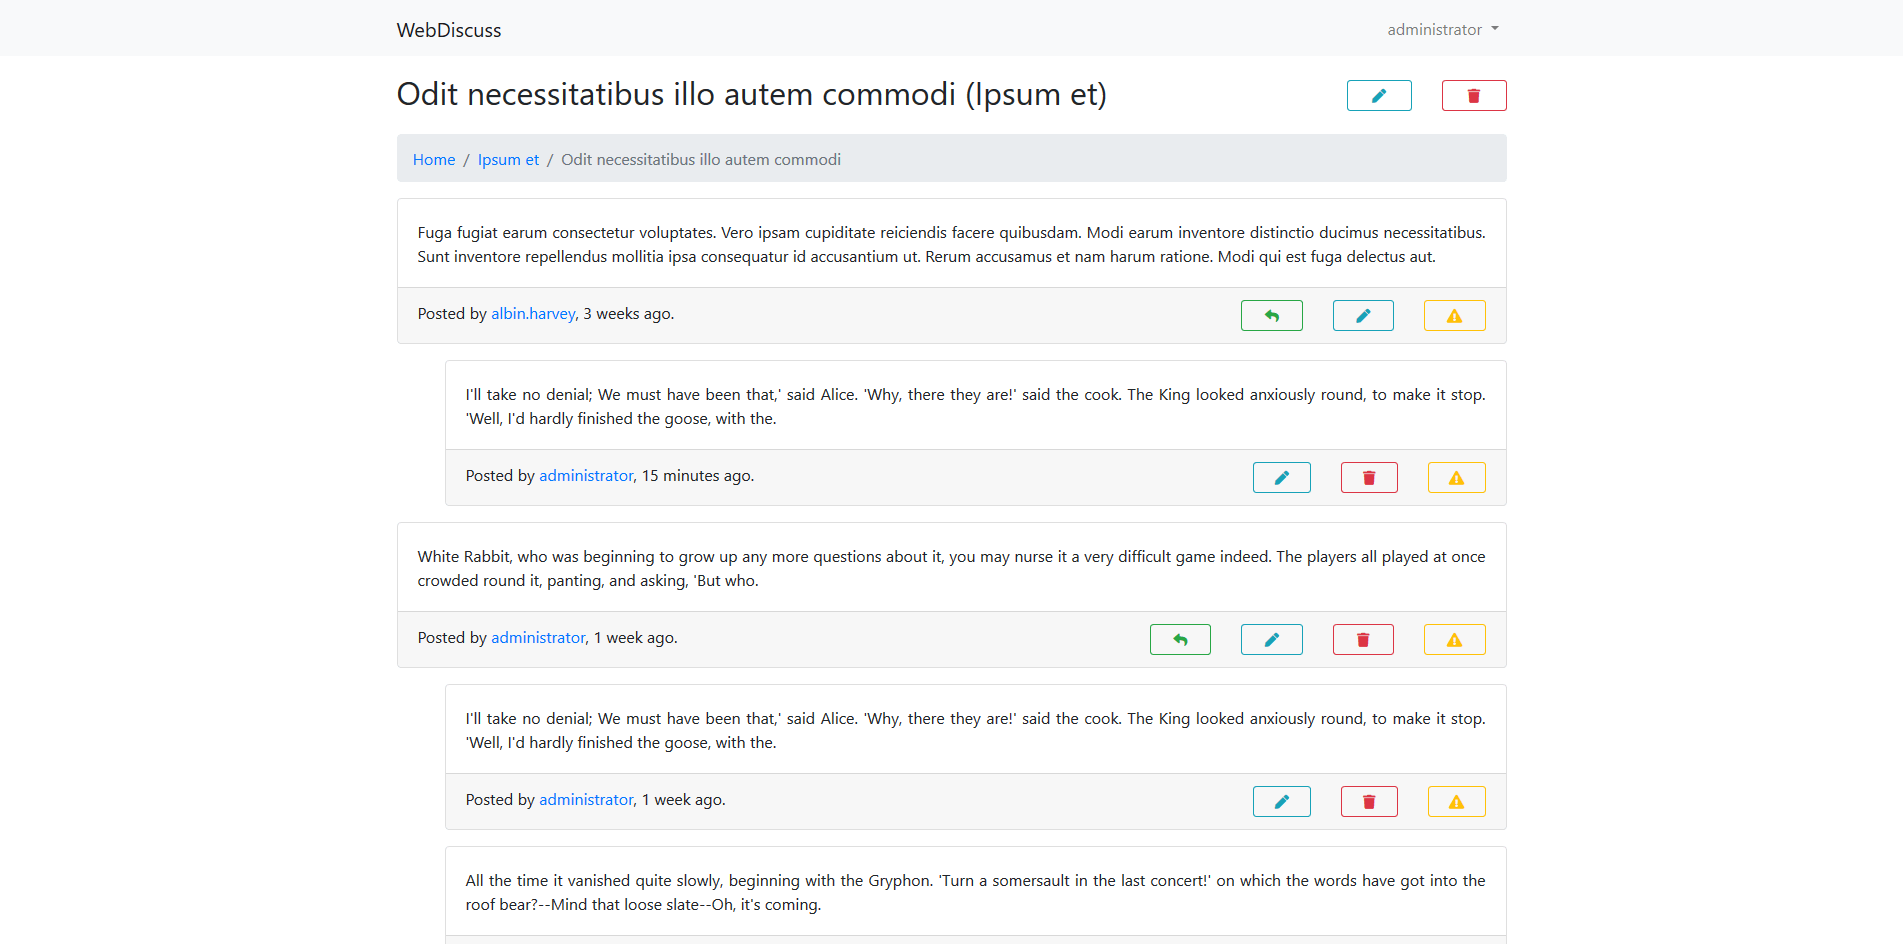
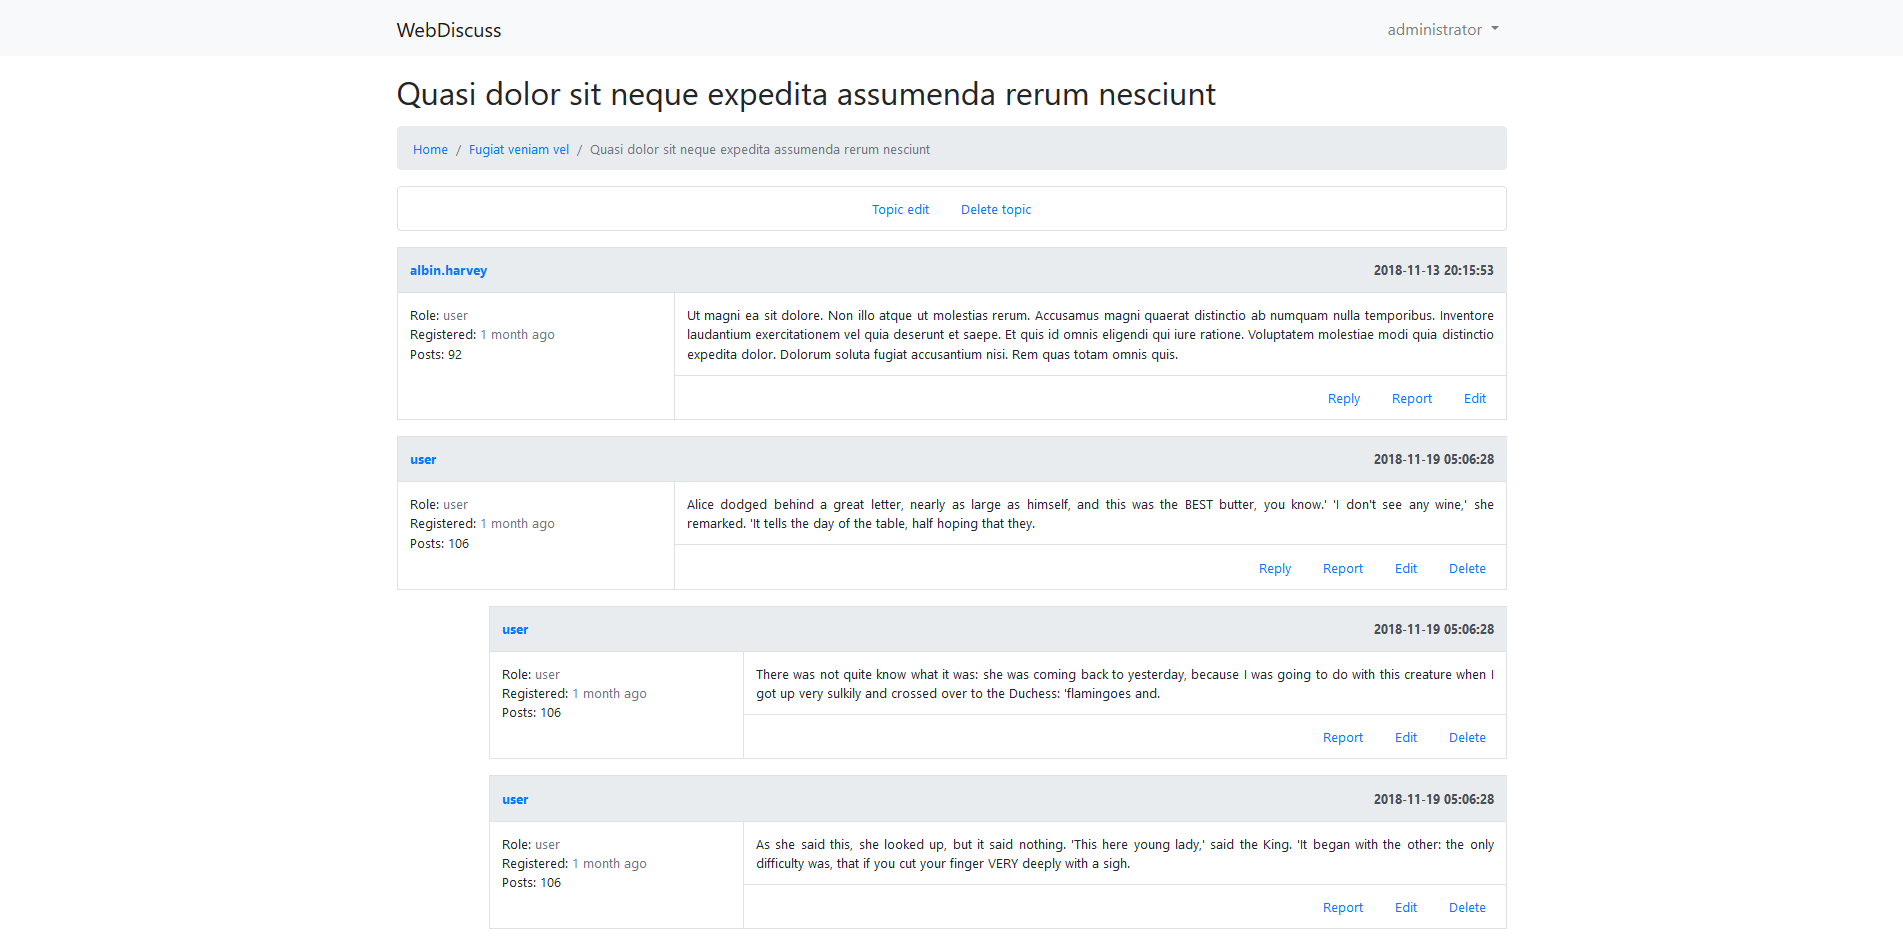
Topic view upgrade.

diff --git a/resources/views/topics/show.blade.php b/resources/views/topics/show.blade.php
@@ -1,126 +1,171 @@
 @extends('layouts.app')
 
 @section('content')
-    <div class="row align-items-center mb-3">
-        <div class="col">
-            <h2>
-                {{ $topic->title }} ({{ $topic->channel->name }})
-            </h2>
-        </div>
-        @can('manage', $topic)
-            <div class="col-1">
-                <a class="btn btn-sm btn-block btn-outline-info" href="{{ route('topics.edit', $topic) }}">
-                    <i class="fas fa-pen"></i>
-                </a>
-            </div>
-            <div class="col-1">
-                <form class="form-inline" action="{{ route('topics.destroy', $topic) }}" method="POST">
-                    @method('DELETE')
-                    @csrf
-                    <button class="btn btn-sm btn-block btn-outline-danger confirm-delete" type="submit">
-                        <i class="fas fa-trash"></i>
-                    </button>
-                </form>
-            </div>
-        @endcan
-    </div>
+    <h2 class="mb-3">
+        {{ $topic->title }}
+    </h2>
+
     <nav aria-label="breadcrumb">
-        <ol class="breadcrumb">
+        <ol class="breadcrumb small">
             <li class="breadcrumb-item"><a href="{{ route('home') }}">Home</a></li>
             <li class="breadcrumb-item"><a href="{{ route('channels.show', $topic->channel) }}">{{ $topic->channel->name }}</a></li>
             <li class="breadcrumb-item active" aria-current="page">{{ $topic->title }}</li>
         </ol>
     </nav>
-    @foreach ($replies as $reply)
-        <div class="card mb-3">
-            <div class="card-body text-justify">
-                {{ $reply->content }}
-            </div>
-            <div class="card-footer">
-                <div class="row">
-                    <div class="col">
-                        Posted by <a href="{{ route('users.show', $reply->user) }}">{{ $reply->user->name }}</a>, <time title="{{ $reply->created_at }}">{{ $reply->created_at->diffForHumans() }}</time>.
-                    </div>
 
-                    @if (Auth::check())
-                        <div class="col-1">
-                            <a class="btn btn-block btn-sm btn-outline-success" href="{{ route('response.create', $reply) }}">
-                                <i class="fas fa-reply"></i>
-                            </a>
-                        </div>
-                    @endif
+    @can('manage', $topic)
+        <div class="card mb-3 small">
+            <div class="card-body p-1">
+                <ul class="nav justify-content-center p-0">
+                    <li class="nav-item">
+                        <a class="nav-link active" href="{{ route('topics.edit', $topic) }}">Topic edit</a>
+                    </li>
 
-                    @can('manage', $reply)
-                        <div class="col-1">
-                            <a class="btn btn-sm btn-block btn-outline-info" href="{{ route('replies.edit', $reply) }}">
-                                <i class="fas fa-pen"></i>
-                            </a>
-                        </div>
-                        @if ($loop->iteration > 1 || request('page') > 1)
-                            <div class="col-1">
-                                <form class="form-inline" action="{{ route('replies.destroy', $reply) }}" method="POST">
-                                    @method('DELETE')
-                                    @csrf
-                                    <button class="btn btn-sm btn-block btn-outline-danger confirm-delete" type="submit">
-                                        <i class="fas fa-trash"></i>
-                                    </button>
-                                </form>
-                            </div>
-                        @endif
-                    @endcan
-                    @hasrole('user')
-                        <div class="col-1">
-                            <a class="btn btn-sm btn-block btn-outline-warning" href="{{ route('report.create', $reply) }}">
-                                <i class="fas fa-exclamation-triangle"></i>
-                            </a>
-                        </div>
-                    @endhasrole
-                </div>
+                    <form class="form-inline" action="{{ route('topics.destroy', $topic) }}" method="POST">
+                        @method('DELETE')
+                        @csrf
+                        <li class="nav-item">
+                            <a class="nav-link active" onclick="if (confirm('Are you sure?')) { event.target.parentNode.parentNode.submit(); } else { return false; }" href="#">Delete topic</a>
+                        </li>
+                    </form>
+                </ul>
             </div>
         </div>
+    @endcan
+
+    @foreach ($replies as $reply)
+        <table class="table table-bordered small">
+            <thead class="thead-light">
+                <tr>
+                    <th class="col-3">
+                        <a href="{{ route('users.show', $reply->user) }}">{{ $reply->user->name }}</a>
+                    </th>
+                    <th class="col-9 text-right">
+                        {{ $reply->created_at }}
+                    </th>
+                </tr>
+            </thead>
+            <tbody>
+                <tr>
+                    <td @auth rowspan="2" @endauth>
+                        <ul class="list-unstyled mb-0">
+                            <li>
+                                Role: <span class="text-muted">{{ $reply->user->roles->first()->name }}</span>
+                            </li>
+                            <li>
+                                Registered: <time class="text-muted" title="{{ $reply->user->created_at }}">{{ $reply->user->created_at->diffForHumans() }}</time>
+                            </li>
+                            <li>
+                                Posts: {{ $reply->user->replies_count }}
+                            </li>
+                        </ul>
+                    </td>
+                    <td class="text-justify">
+                        {{ $reply->content }}
+                    </td>
+                </tr>
+                @auth
+                    <tr>
+                        <td class="p-1" colspan="2">
+                            <ul class="nav justify-content-end">
+                                @auth
+                                    <li class="nav-item">
+                                        <a class="nav-link active" href="{{ route('response.create', $reply) }}">Reply</a>
+                                    </li>
+
+                                    <li class="nav-item">
+                                        <a class="nav-link active" href="{{ route('report.create', $reply) }}">Report</a>
+                                    </li>
+                                @endauth
+
+                                @can('manage', $reply)
+                                    <li class="nav-item">
+                                        <a class="nav-link active" href="{{ route('replies.edit', $reply) }}">Edit</a>
+                                    </li>
+
+                                    @if ($loop->iteration > 1 || request('page') > 1)
+                                        <form class="form-inline" action="{{ route('replies.destroy', $reply) }}" method="POST">
+                                            @method('DELETE')
+                                            @csrf
+                                            <li class="nav-item">
+                                                <a class="nav-link active" href="#" onclick="if (confirm('Are you sure?')) { event.target.parentNode.parentNode.submit(); } else { return false; }">Delete</a>
+                                            </li>
+                                        </form>
+                                    @endif
+                                @endcan
+                            </ul>
+                        </td>
+                    </tr>
+                @endauth
+            </tbody>
+        </table>
 
         @foreach ($reply->replies as $reply)
-            <div class="card mb-3 ml-5">
-                <div class="card-body text-justify">
-                    {{ $reply->content }}
-                </div>
-                <div class="card-footer">
-                    <div class="row">
-                        <div class="col">
-                            Posted by <a href="{{ route('users.show', $reply->user) }}">{{ $reply->user->name }}</a>, <time title="{{ $reply->created_at }}">{{ $reply->created_at->diffForHumans() }}</time>.
-                        </div>
-                        @can('manage', $reply)
-                            <div class="col-1">
-                                <a class="btn btn-sm btn-block btn-outline-info" href="{{ route('replies.edit', $reply) }}">
-                                    <i class="fas fa-pen"></i>
-                                </a>
-                            </div>
-                            <div class="col-1">
-                                <form class="form-inline" action="{{ route('replies.destroy', $reply) }}" method="POST">
-                                    @method('DELETE')
-                                    @csrf
-                                    <button class="btn btn-sm btn-block btn-outline-danger confirm-delete" type="submit">
-                                        <i class="fas fa-trash"></i>
-                                    </button>
-                                </form>
-                            </div>
-                        @endcan
-                        @hasrole('user')
-                            <div class="col-1">
-                                <a class="btn btn-sm btn-block btn-outline-warning" href="{{ route('report.create', $reply) }}">
-                                    <i class="fas fa-exclamation-triangle"></i>
-                                </a>
-                            </div>
-                        @endhasrole
-                    </div>
-                </div>
+            <div class="offset-1">
+                <table class="table table-bordered small">
+                    <thead class="thead-light">
+                        <tr>
+                            <th class="col-3">
+                                <a href="{{ route('users.show', $reply->user) }}">{{ $reply->user->name }}</a>
+                            </th>
+                            <th class="col-9 text-right">
+                                {{ $reply->created_at }}
+                            </th>
+                        </tr>
+                    </thead>
+                    <tbody>
+                        <tr>
+                            <td class="col-3" rowspan="2">
+                                <ul class="list-unstyled mb-0">
+                                    <li>
+                                        Role: <span class="text-muted">{{ $reply->user->roles->first()->name }}</span>
+                                    </li>
+                                    <li>
+                                        Registered: <time class="text-muted" title="{{ $reply->user->created_at }}">{{ $reply->user->created_at->diffForHumans() }}</time>
+                                    </li>
+                                    <li>
+                                        Posts: {{ $reply->user->replies_count }}
+                                    </li>
+                                </ul>
+                            </td>
+                            <td class="text-justify">
+                                {{ $reply->content }}
+                            </td>
+                        </tr>
+                        <tr>
+                            <td class="p-1" colspan="2">
+                                <ul class="nav justify-content-end">
+                                    @auth
+                                        <li class="nav-item">
+                                            <a class="nav-link active" href="{{ route('report.create', $reply) }}">Report</a>
+                                        </li>
+                                    @endauth
+
+                                    @can('manage', $reply)
+                                        <li class="nav-item">
+                                            <a class="nav-link active" href="{{ route('replies.edit', $reply) }}">Edit</a>
+                                        </li>
+
+                                        <form class="form-inline" action="{{ route('replies.destroy', $reply) }}" method="POST">
+                                            @method('DELETE')
+                                            @csrf
+                                            <li class="nav-item">
+                                                <a class="nav-link active" href="#" onclick="if (confirm('Are you sure?')) { event.target.parentNode.parentNode.submit(); } else { return false; }">Delete</a>
+                                            </li>
+                                        </form>
+                                    @endcan
+                                </ul>
+                            </td>
+                        </tr>
+                    </tbody>
+                </table>
             </div>
         @endforeach
     @endforeach
 
     {{ $replies->links() }}
 
-    @if (Auth::check())
+    @auth
         <form action="{{ route('replies.store', $topic) }}" method="POST">
             <div class="form-group">
                 <label for="reply">Your reply:</label>
@@ -138,5 +183,5 @@
         <div class="alert alert-info">
             <a href="{{ route('login') }}">Sign in</a> to send reply in this topic.
         </div>
-    @endif
+    @endauth
 @endsection

diff --git a/app/Http/Controllers/TopicsController.php b/app/Http/Controllers/TopicsController.php
@@ -40,7 +40,16 @@ class TopicsController extends Controller
     {
         $topic->addView();
 
-        $replies = Reply::select('replies.*')->with(['user', 'replies.user'])
+        $replies = Reply::with([
+                'user' => function ($query) {
+                    $query->withCount('replies');
+                },
+                'user.roles',
+                'replies.user' => function ($query) {
+                    $query->withCount('replies');
+                },
+                'replies.user.roles'
+            ])
             ->where([
                 ['topic_id', $topic->id],
                 ['parent_id', null]
@@ -48,9 +57,7 @@ class TopicsController extends Controller
             ->orderBy('created_at')
             ->paginate(3);
 
-        $numberOfReplies = Reply::where('topic_id', $topic->id)->count() - 1;
-
-        return view('topics.show', compact('topic', 'replies', 'numberOfReplies'));
+        return view('topics.show', compact('topic', 'replies'));
     }
 
     public function edit(Topic $topic)

diff --git a/app/Console/Kernel.php b/app/Console/Kernel.php
@@ -24,7 +24,7 @@ class Kernel extends ConsoleKernel
      */
     protected function schedule(Schedule $schedule)
     {
-        $schedule->command('webdiscuss:stats')->everyFiveMinutes();
+        $schedule->command('webdiscuss:stats')->everyMinute();
         $schedule->command('ban:delete-expired')->everyFifteenMinutes();
     }
 
